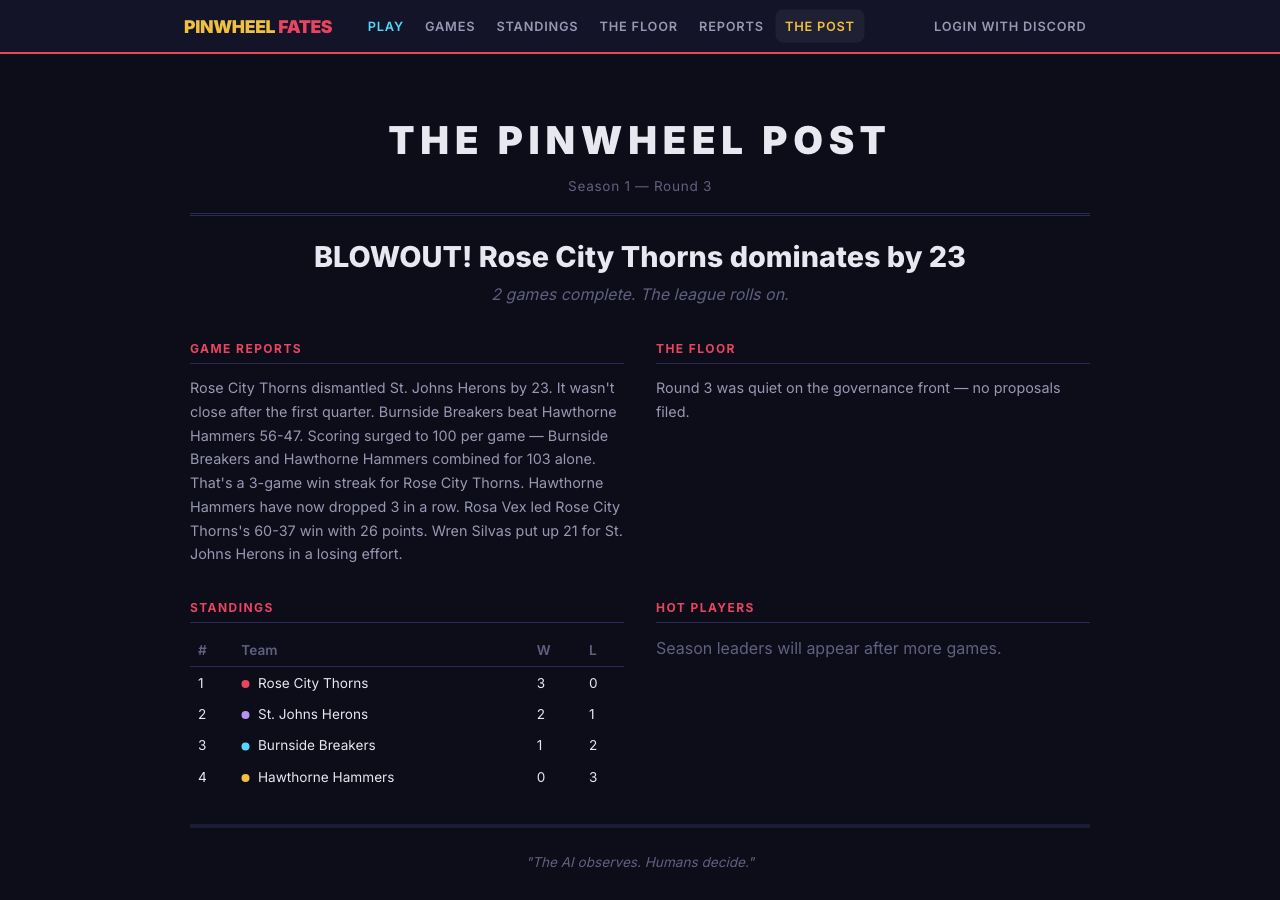
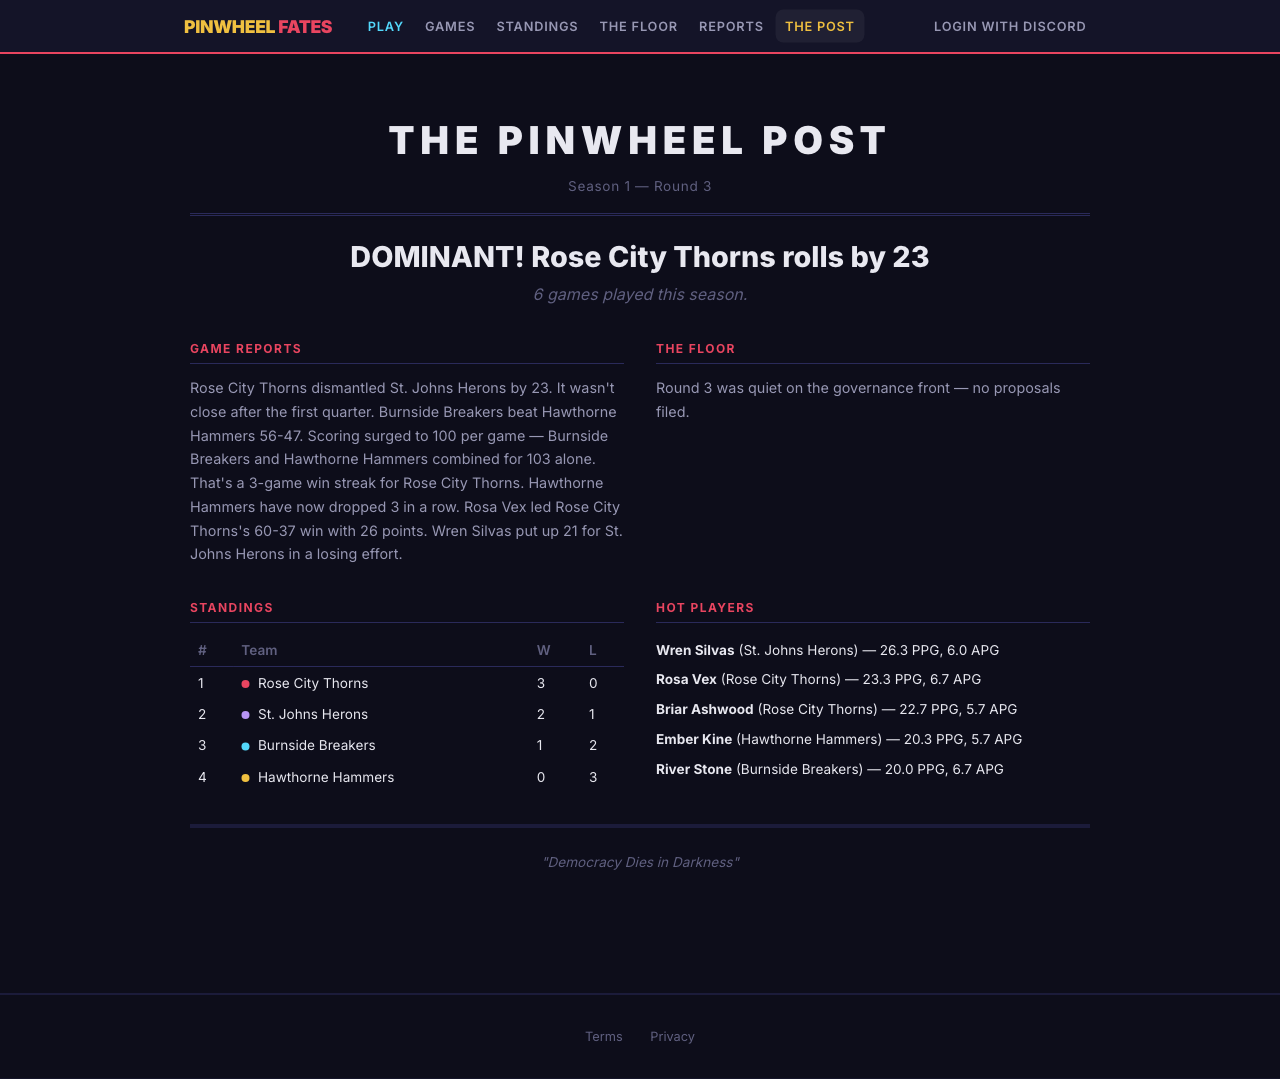
fix: newspaper reads context instead of needing external flags
The mock headline generator now figures out the story from the data:
- Championship game winner IS the champion — no DB flag needed
- Subhead "Defeated X 56-45 to claim the title" not "the postseason continues"
- Governance section overridden for championship rounds (stored report
  said "finals underway" but the season is over)
- Removed season_complete/champion_name params from the mock
- Sim report: winner's star player before loser's, sweep detection

diff --git a/src/pinwheel/ai/insights.py b/src/pinwheel/ai/insights.py
@@ -712,28 +712,23 @@ def generate_newspaper_headlines_mock(
     round_data: dict,
     round_number: int,
     *,
-    season_complete: bool = False,
-    champion_name: str = "",
     playoff_phase: str = "",
     total_games_played: int = 0,
 ) -> dict[str, str]:
-    """Mock newspaper headlines — uses game data for deterministic output."""
+    """Mock newspaper headlines — reads the context to figure out the story.
+
+    The data tells us everything: a championship game has a winner (that's
+    the champion), a blowout tells us who dominated, a close game tells us
+    about drama. We don't need external flags — just look at what happened.
+    """
     games = round_data.get("games", [])
-
-    # Season is over — champion crowned
-    if season_complete and champion_name:
-        return {
-            "headline": f"{champion_name.upper()} ARE YOUR CHAMPIONS",
-            "subhead": "The season is over. The dynasty begins.",
-        }
-
     if not games:
         return {
             "headline": f"SILENCE ON THE COURTS — ROUND {round_number}",
             "subhead": "No games played this round.",
         }
 
-    # Find the closest game and biggest blowout
+    # Analyze every game
     closest_margin = 999
     biggest_margin = 0
     closest_game: dict = {}
@@ -748,54 +743,70 @@ def generate_newspaper_headlines_mock(
             biggest_margin = margin
             biggest_game = g
 
-    # Use the most interesting game for the headline
-    feature_game = closest_game if closest_margin <= 5 else biggest_game
-    winner = feature_game.get(
-        "winner_team_name", feature_game.get("winner_team_id", "???")
+    # Pick the feature game — close games are more dramatic than blowouts
+    feature = closest_game if closest_margin <= 5 else biggest_game
+    winner = feature.get(
+        "winner_team_name", feature.get("winner_team_id", "???")
     )
-    loser_name = ""
-    for g in games:
-        if g.get("winner_team_name") != winner:
-            loser_name = g.get("home_team_name", "")
-            if loser_name == winner:
-                loser_name = g.get("away_team_name", "")
+    w_score = feature.get("home_score", 0)
+    l_score = feature.get("away_score", 0)
+    if feature.get("winner_team_name") != feature.get("home_team_name"):
+        w_score, l_score = l_score, w_score
+    margin = abs(w_score - l_score)
 
-    # Build headline — playoff-aware, always specific
+    # Figure out the loser
+    loser = ""
+    if feature.get("winner_team_name") == feature.get("home_team_name"):
+        loser = feature.get("away_team_name", "")
+    else:
+        loser = feature.get("home_team_name", "")
+
+    # Championship game — the winner IS the champion. Season is over.
     is_championship = playoff_phase in ("finals", "championship")
     is_playoff = is_championship or playoff_phase == "semifinal"
 
     if is_championship:
-        w_score = feature_game.get("home_score", 0)
-        a_score = feature_game.get("away_score", 0)
-        if feature_game.get("winner_team_name") != feature_game.get("home_team_name"):
-            w_score, a_score = a_score, w_score
         headline = (
-            f"{winner.upper()} WINS THE CHAMPIONSHIP "
-            f"{w_score}-{a_score}"
+            f"{winner.upper()} ARE YOUR CHAMPIONS"
         )
+        subhead = f"Defeated {loser} {w_score}-{l_score} to claim the title."
     elif closest_margin <= 3 and closest_game:
-        headline = f"DOWN TO THE WIRE! {winner} survives by {closest_margin}"
+        headline = f"DOWN TO THE WIRE! {winner} survives by {margin}"
+        subhead = _round_subhead(
+            round_data, is_playoff, total_games_played, len(games),
+        )
     elif biggest_margin >= 10 and biggest_game:
-        headline = f"DOMINANT! {winner} rolls by {biggest_margin}"
+        headline = f"DOMINANT! {winner} rolls {w_score}-{l_score}"
+        subhead = _round_subhead(
+            round_data, is_playoff, total_games_played, len(games),
+        )
     elif is_playoff:
-        headline = f"{winner.upper()} ADVANCES"
+        headline = f"{winner.upper()} TAKES THE SERIES LEAD"
+        subhead = f"Beat {loser} {w_score}-{l_score}."
     else:
         headline = f"{winner} wins Round {round_number}"
+        subhead = _round_subhead(
+            round_data, is_playoff, total_games_played, len(games),
+        )
 
-    # Subhead — contextual, never just counting games
+    return {"headline": headline, "subhead": subhead}
+
+
+def _round_subhead(
+    round_data: dict,
+    is_playoff: bool,
+    total_games_played: int,
+    games_this_round: int,
+) -> str:
+    """Build a contextual subhead for non-championship rounds."""
     governance_data = round_data.get("governance", {})
     rules_changed = governance_data.get("rules_changed", [])
     if rules_changed:
         param = rules_changed[0].get("parameter", "a rule")
-        subhead = f"The Floor rewrites {param} as governance reshapes the game."
-    elif is_championship and loser_name:
-        subhead = f"{loser_name} falls in the finals."
-    elif is_playoff:
-        subhead = "The postseason continues."
-    elif total_games_played > 0:
-        subhead = f"{total_games_played} games played this season."
-    else:
-        n = len(games)
-        subhead = f"{n} {'game' if n == 1 else 'games'} this round."
-
-    return {"headline": headline, "subhead": subhead}
+        return f"The Floor rewrites {param} as governance reshapes the game."
+    if is_playoff:
+        return "The postseason rolls on."
+    if total_games_played > 0:
+        return f"{total_games_played} games played this season."
+    n = games_this_round
+    return f"{n} {'game' if n == 1 else 'games'} this round."

diff --git a/src/pinwheel/api/pages.py b/src/pinwheel/api/pages.py
@@ -1660,17 +1660,8 @@ async def newspaper_page(request: Request, repo: RepoDep, current_user: Optional
     standings: list[dict] = []
     hot_players: list[dict] = []
     current_round = 0
-    season_complete = False
-    champion_name = ""
 
     if season_id:
-        # Check season status
-        season_row = await repo.get_season(season_id)
-        if season_row:
-            terminal = {"completed", "complete", "archived"}
-            season_complete = season_row.status in terminal
-            champion_name = getattr(season_row, "champion_team_name", "") or ""
-
         # Find latest round
         for rn in range(1, 100):
             games = await repo.get_games_for_round(season_id, rn)
@@ -1680,6 +1671,11 @@ async def newspaper_page(request: Request, repo: RepoDep, current_user: Optional
                 break
 
         if current_round > 0:
+            # Detect playoff phase for this round (needed for headlines
+            # and to override stale governance reports)
+            round_phase = await _get_game_phase(repo, season_id, current_round)
+            is_championship_round = round_phase in ("finals", "championship")
+
             # Fetch reports for the latest round
             sim_reports = await repo.get_reports_for_round(
                 season_id, current_round, "simulation",
@@ -1687,11 +1683,19 @@ async def newspaper_page(request: Request, repo: RepoDep, current_user: Optional
             if sim_reports:
                 sim_report = sim_reports[0].content
 
-            gov_reports = await repo.get_reports_for_round(
-                season_id, current_round, "governance",
-            )
-            if gov_reports:
-                gov_report = gov_reports[0].content
+            # Governance report — override if this was the championship
+            # (stored report says "finals underway" but season is over)
+            if is_championship_round:
+                gov_report = (
+                    "The season has concluded. The Floor is adjourned "
+                    "until a new season begins."
+                )
+            else:
+                gov_reports = await repo.get_reports_for_round(
+                    season_id, current_round, "governance",
+                )
+                if gov_reports:
+                    gov_report = gov_reports[0].content
 
             impact_reports = await repo.get_reports_for_round(
                 season_id, current_round, "impact_validation",
@@ -1754,16 +1758,11 @@ async def newspaper_page(request: Request, repo: RepoDep, current_user: Optional
                 "governance": {},
             }
 
-            # Detect playoff phase for this round
-            round_phase = await _get_game_phase(repo, season_id, current_round)
-
             # Total games played this season
             total_season_games = sum(s.get("wins", 0) for s in standings)
 
             headlines = generate_newspaper_headlines_mock(
                 round_data, current_round,
-                season_complete=season_complete,
-                champion_name=champion_name,
                 playoff_phase=round_phase or "",
                 total_games_played=total_season_games,
             )
